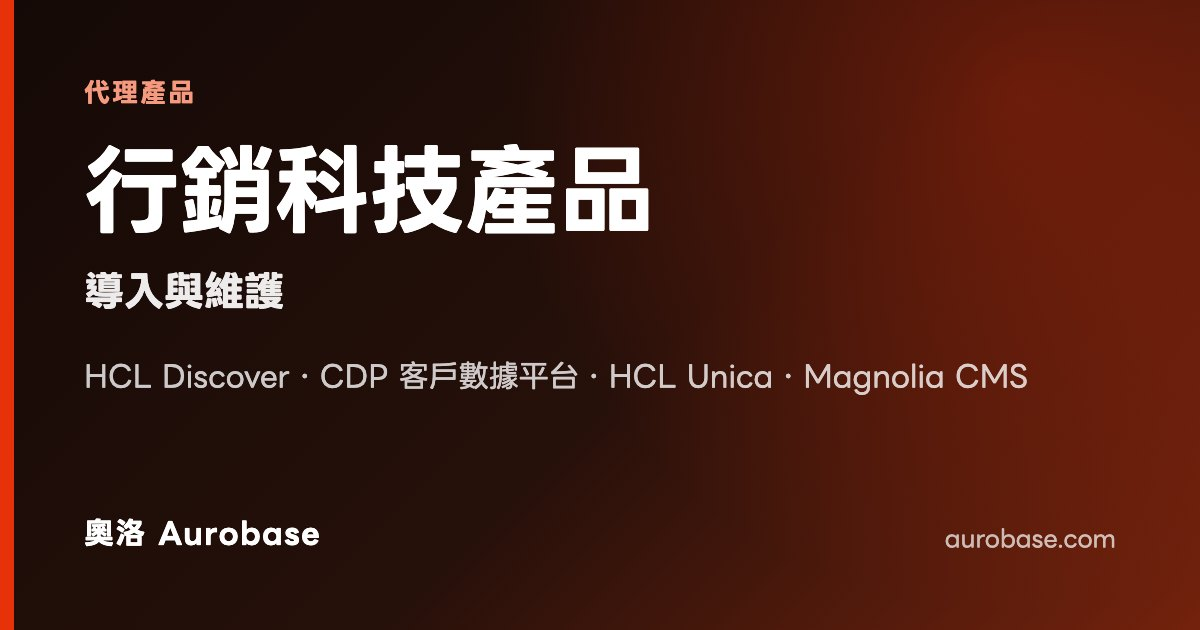
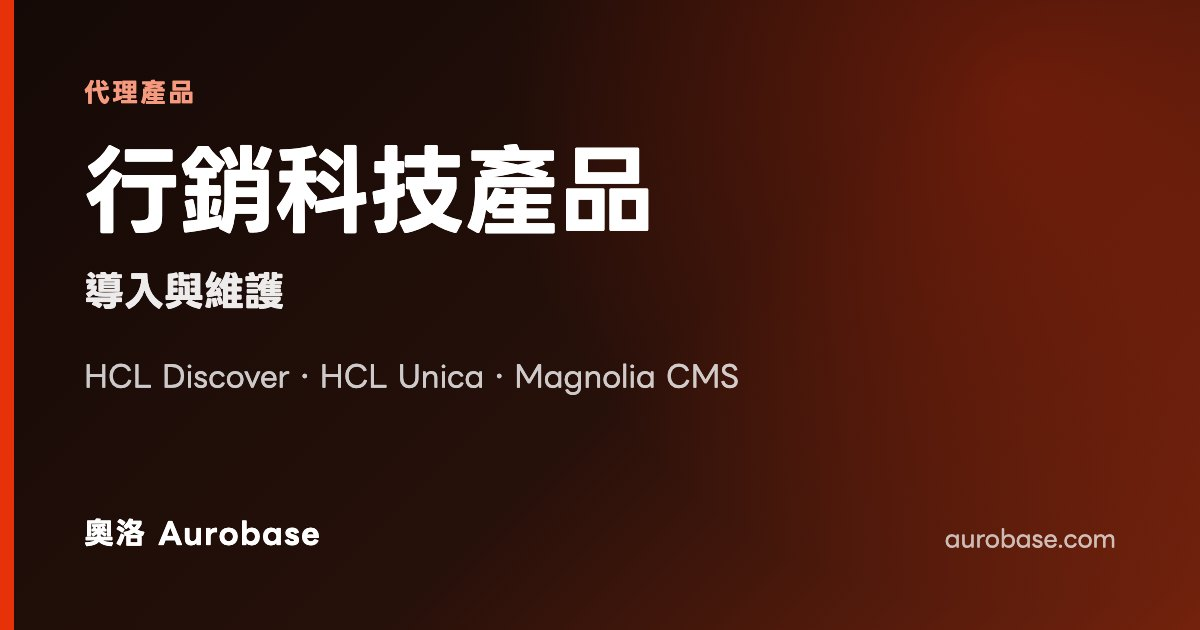
fix(solution): 代理產品移除 CDP 區塊（即自有 AURA CDP），改連 AURA CDP 產品頁

Changed region(s): [[0.2467, 0.573, 0.8633, 0.6333]]

diff --git a/nexus.html b/nexus.html
@@ -1108,7 +1108,7 @@
                             </form>
                             <div class="nm-table-wrap"><table class="nm-table nm-table-needs">
                                 <thead><tr><th scope="col">您的需求</th><th scope="col">對應模組</th></tr></thead>
-                                <tbody><tr data-key="統一管理企業內的 ai 使用，並留下稽核紀錄 forge 治理化 ai 閘道 forge — governed ai gateway nexus forge auro nexus forge 地端 ai 地端 llm 地端 llm 建置 ai 閘道 llm gateway 私有化 ai ai 治理 ai 稽核 企業知識庫 rag mcp openai 相容 api 金融業 ai 指引 chatgpt 生成式 ai 員工使用 ai 大語言模型 llm 地端模型 私有化 ai 個資外洩 ai 稽核 模型管理 資料外洩 機密外洩 客戶資料外洩 怕外洩 ai 資安" data-search="forge 是奧洛（aurobase）的治理化 ai 閘道，也是 auro nexus ai 治理平台的底座：以 openai 相容 api 統一企業內所有 ai 呼叫，推論前先做權限與政策檢查，可只用地端 ai 模型（地端 llm），並把每次推論、知識庫查詢與工具呼叫寫入可離線驗證的稽核軌跡。 企業內部 ai 的治理閘道：模型路由、知識庫、工具閘道與稽核帳。 資訊長、架構師要把各部門自行串接的 ai 收斂成一個入口、一套權限。 資安與法遵要回答「資料送去哪裡、誰核准、紀錄有沒有被改過」。 金融與受監理產業要在私有或離線環境導入生成式 ai，並保留可稽核的證據。 多模型路由 知識庫 rag mcp 工具閘道 自然語言查資料 審批與驗證 稽核帳與證據包 ai 閘道（llm gateway）是什麼？ 地端 ai 的主要優勢是什麼？ 地端 llm 建置之後，還需要 ai 治理平台嗎？ forge 跟直接用 chatgpt 有什麼不同？ 既有的 ai 應用要改寫才能接 forge 嗎？ 稽核紀錄怎麼證明沒被改過？"><th scope="row">統一管理企業內的 AI 使用，並留下稽核紀錄</th><td><a href="nexus-forge.html">Forge 治理化 AI 閘道</a></td></tr><tr data-key="讓 ai agent 自動執行工作，但保留人工審核 auro ai 任務編排 auro — governed ai task orchestration nexus auro auro nexus auro ai agent 平台 企業級 ai agent ai agent 企業導入 ai agent 企業應用 ai 代理 任務編排 工作流程自動化 人工審核 ai 治理 自動化 流程自動化 rpa ai agent 代理 工作流程 簽核 審核流程 排程" data-search="auro 是奧洛（aurobase）的企業級 ai agent 平台：每個 ai 任務都有步數、token 與時限上限，每一步先經四態治理閘門判定放行、警示、送審或阻擋，可暫停交人審核、可緊急停止，全程留下稽核紀錄。 ai 任務的編排與執行環境，內建預算、治理閘門與人工審核。 數位轉型與流程負責人想把重複性工作交給 ai agent，但需要明確的上限與審核點。 資安與風控要確保 ai agent 的每個動作都經過檢查、出事時能逐步重建。 已導入 ai 治理平台的企業要把治理從單次推論延伸到多步驟的代理任務。 有界執行 四態治理閘門 人工審核與緊急停止 代理間委派 受治理的長期記憶 技能登錄與執行 企業導入 ai agent 最需要注意什麼？ auro 怎麼避免 ai agent 失控？ 治理服務當機時會怎樣？ auro 可以在沒有網路的環境使用嗎？"><th scope="row">讓 AI Agent 自動執行工作，但保留人工審核</th><td><a href="nexus-auro.html">Auro AI 任務編排</a></td></tr><tr data-key="整合客戶資料，建立單一客戶視圖 aura cdp 客戶數據平台 aura cdp — customer data platform nexus cdp nexus cdp aura-cdp cdp cdp 客戶數據平台 客戶數據平台 客戶數據平台 單一客戶視圖 客戶 360 身分解析 分群 旅程編排 行銷自動化 同意管理 地端 cdp aura cdp 會員 客戶資料 顧客資料 360 分群 名單 再行銷 個人化 旅程 推播 line 病患資料 醫院 病患" data-search="aura cdp 是奧洛（aurobase）的 cdp 客戶數據平台：以身分解析整合各系統資料，建立單一客戶視圖，提供分群（含自然語言建分群）、旅程編排、ml 評分，以及同意管理與可追溯的個資刪除處理。可部署於企業自有機房。 整合客戶資料、建立單一客戶檔案，並驅動分群與旅程的客戶數據平台。 行銷與數位通路主管要把分散的客戶資料變成可直接啟動的分群與旅程。 資料與資訊單位要一套身分合併規則透明、可審核的客戶主檔。 金融與受監理產業客戶資料需留在自有環境，同意與刪除要有可查驗的紀錄。 身分解析 單一客戶檔案 分群 旅程編排 ml 評分 同意與刪除 cdp 客戶數據平台是什麼？ cdp 和 crm 有什麼不同？ aura cdp 可以部署在自己的機房嗎？ 身分解析會不會把不同的人併在一起？ 客戶要求刪除資料時怎麼處理？ 可以接哪些通路？"><th scope="row">整合客戶資料，建立單一客戶視圖</th><td><a href="nexus-cdp.html">AURA CDP 客戶數據平台</a></td></tr><tr data-key="經營 b2b 目標客戶，評估購買意圖 nexus abm 企業客戶帳號經營 nexus abm — account-based engine abm abm 行銷 abm 是什麼 b2b 行銷 b2b 行銷策略 帳號式行銷 意圖評分 多觸點歸因 b2b 行銷漏斗 b2b 企業客戶 業務開發 潛在客戶 商機 目標客戶 名單" data-search="nexus abm 是奧洛（aurobase）的 abm（帳號式行銷）平台：把個人行為歸到所屬企業帳號，以可解釋的方式評估購買意圖，並用四種歸因模型計算各接觸點的貢獻，建構於 aura cdp 之上。 b2b 目標客戶經營引擎：帳號解析、意圖評分、歸因與分群。 b2b 行銷主管要知道哪些目標企業正在研究您的產品。 業務主管要一份說得出理由的優先拜訪名單。 行銷營運要比較各接觸點的貢獻，調整預算分配。 企業帳號解析 可解釋的意圖評分 多觸點歸因 帳號分群 外展序列管理 abm 是什麼？ nexus abm 和 aura cdp 有什麼不同？ 意圖分數是怎麼算的？ nexus abm 提供哪些歸因模型？"><th scope="row">經營 B2B 目標客戶，評估購買意圖</th><td><a href="nexus-abm.html">NEXUS ABM 企業客戶帳號經營</a></td></tr><tr data-key="建立可追溯出處的企業知識庫與 rag 問答 insight 企業知識萃取與治理 insight — knowledge extraction &amp; governance nexus insight auro nexus insight 企業知識庫 企業知識庫 ai rag rag 企業應用 企業級 rag 知識管理系統 知識管理系統 ai kms 知識圖譜 語意搜尋 地端 ai 知識庫 文件問答 rag 內部文件 搜尋 faq 客服知識 規章 問答機器人 knowledge base 知識管理 內部問答" data-search="insight 是奧洛（aurobase）的企業知識庫 ai：把 pdf、word 等內部文件萃取成術語、知識點與問答，經人工審核後才開放 rag 問答與語意搜尋，每一項知識都能追溯回出處文件，可在地端運作。 企業文件的知識萃取、審核、檢索與圖譜平台。 知識管理與教育訓練要讓規章、作業手冊與產品知識可以被正確查詢。 客服與第一線人員要在幾秒內找到有出處、可以引用的答案。 法遵與稽核要確認 ai 引用的是有效版本，且知道是誰核准的。 文件解析 知識萃取 審核流程 術語版本與衝突 語意搜尋與問答 知識圖譜 企業知識庫 rag 怎麼導入比較穩？ insight 支援哪些文件格式？ insight 萃取的內容會直接給使用者查嗎？ insight 的答案能追溯到原始文件嗎？ insight 需要連外部 ai 服務嗎？"><th scope="row">建立可追溯出處的企業知識庫與 RAG 問答</th><td><a href="nexus-insight.html">Insight 企業知識萃取與治理</a></td></tr><tr data-key="讓員工的知識收藏留在企業環境內 library 個人知識收藏空間 library — personal knowledge space nexus library auro nexus library 個人知識管理 pkm 企業 pkm 書籤管理 書籤管理工具 知識收藏 筆記 瀏覽器擴充套件 企業知識庫 書籤 筆記 收藏 個人知識 網頁剪輯" data-search="library 是奧洛（aurobase）的企業個人知識管理（pkm）工具：每位員工一個獨立收藏空間，文字、網址、筆記與檔案可一鍵存入、加標籤、搜尋，並有 chrome 擴充套件；收藏留在企業環境內，可由 insight 建立語意索引。 每位員工的個人知識收藏、標籤與搜尋空間。 知識工作者要一個地方收齊文章、連結與筆記，需要時找得回來。 資訊與資安單位不希望工作資料散落在員工私人的筆記或雲端服務。 知識管理推動者要讓個人收藏有機會成為組織知識。 每人一個空間 單一入口收藏 收藏時的安全檢查 搜尋與標籤 瀏覽器擴充套件 個資刪除與稽核 library 可以收藏哪些內容？ 和一般書籤管理工具有什麼不同？ 其他同事看得到我在 library 的收藏嗎？ 可以用自然語言搜尋嗎？"><th scope="row">讓員工的知識收藏留在企業環境內</th><td><a href="nexus-library.html">Library 個人知識收藏空間</a></td></tr><tr data-key="用 ai 產製金融宣傳內容或衛教文章，並經審核 mira 受監理產業內容產製與審核 mira — content for regulated industries nexus mira auro nexus mira ai 內容產製 ai 寫文案 ai 內容審核 金融廣告合規 金融業 ai 衛教文章 衛教內容 醫療廣告 合規檢查 法條引用查核 地端 ai 文案 行銷素材 廣告文案 衛教 合規審核 宣傳品 海報 edm 圖片生成 金管會" data-search="mira 是奧洛（aurobase）為金融與醫療等受監理產業設計的 ai 內容產製與審核平台：ai 寫文案、長文、圖文與衛教文章，產出先經規則式合規檢查與法條引用查核，再由人工審核，紀錄寫入可驗證的雜湊鏈，可完全在地端運作。 受監理產業的 ai 內容產製、合規檢查與審核平台。 銀行、保險、證券的數位與品牌團隊要加快宣傳內容產出，同時降低踩到法規紅線的風險。 醫療院所的衛教與公關單位要穩定產出衛教文章，並由醫師審閱把關。 法遵與稽核要看得到每一版內容是誰寫、誰改、誰核准。 內容產製 圖文與品牌規範 規則式合規檢查 法條引用查核 衛教內容工作台 審核與稽核 金融業可以用 ai 寫文案嗎？ mira 適用哪些產業？ ai 引用的法條會不會是編造的？ mira 可以不連外部 ai 服務嗎？ 審核紀錄能提供給稽核嗎？"><th scope="row">用 AI 產製金融宣傳內容或衛教文章，並經審核</th><td><a href="nexus-mira.html">MIRA 受監理產業內容產製與審核</a></td></tr><tr data-key="分析輿情的情緒與敘事走向 pulse 輿情訊號分析 pulse — social signal intelligence nexus pulse auro nexus pulse 輿情分析 輿情分析平台 輿情分析工具 輿情分析 ai 輿情監測系統 社群聆聽 情緒分析 敘事分析 輿情告警 品牌聲量 輿情 社群 聲量 負評 公關 危機 新聞 口碑 評論 網友 討論 留言 大家怎麼說 網路聲量 品牌評價 ptt dcard 論壇 被罵 批評 抱怨 爆料" data-search="pulse 是奧洛（aurobase）的 ai 輿情分析平台：接收企業既有來源的輿情訊號，以批次 ai 分析情緒、摘要與敘事走向，依規則觸發告警，並回算處理後的成效。ai 分析經 forge 治理，個資刪除可回溯遮蔽。 外部輿情訊號的批次 ai 分析、告警與成效回算平台。 公關與品牌團隊要在敘事成形前察覺，並判斷是否需要回應。 客服與風險管理要把散落的抱怨整理成可處理的議題與告警。 已有輿情監測工具的企業要在既有資料之上加一層 ai 分析與成效回算。 訊號串流登錄 批次 ai 分析 告警規則 熱圖與相關性 影響者評分 個資刪除與稽核 輿情分析工具怎麼選？ pulse 會自己去抓社群資料嗎？ pulse 可以分析哪些面向？ ai 分析的資料會送到外部嗎？"><th scope="row">分析輿情的情緒與敘事走向</th><td><a href="nexus-pulse.html">Pulse 輿情訊號分析</a></td></tr><tr data-key="提升品牌在 ai 搜尋中的能見度 nexus geo 生成式搜尋能見度 nexus geo — generative engine optimization generative engine optimization geo auro nexus geo 生成式引擎優化 geo geo 優化 ai 搜尋優化 ai seo 品牌 ai 能見度 ai 引用率 chatgpt 品牌曝光 perplexity ai 搜尋 seo 搜尋排名 chatgpt 推薦 品牌曝光 官網 被 ai 引用" data-search="nexus geo 是奧洛（aurobase）的生成式引擎優化（geo）平台：經 forge 向 chatgpt、claude、gemini、perplexity 提問，量測品牌被提及與引用的程度，檢查網站對 ai 爬蟲與結構化資料的準備度，產出優化建議與月報。 量測品牌在生成式搜尋中被提及與引用程度，並提出網站優化建議的平台。 品牌與行銷主管想知道客戶問 ai 時，自家品牌和同業誰被提到。 網站與內容團隊要一份有出處的檢查清單，知道網站哪裡讓 ai 讀不懂。 金融機構的品牌風險管理ai 不再提到品牌、或引用了非官方來源時，要能及早發現。 多引擎能見度掃描 引用量測計畫 品牌實體擷取 行銷主管儀表板 網站技術體檢 品牌風險告警與報告 geo 和 seo 有什麼不同？做了 seo 還需要 geo 嗎？ nexus geo 怎麼量測品牌在 ai 裡的能見度？ 多久能看到 geo 的成效？ 我的官網需要大幅改版嗎？"><th scope="row">提升品牌在 AI 搜尋中的能見度</th><td><a href="nexus-geo.html">NEXUS GEO 生成式搜尋能見度</a></td></tr><tr data-key="治理非結構化資料的分級、保存與處分 saga 非結構化資料治理 saga — data governance layer stewardship · audit · governance · archiving nexus saga auro nexus saga 資料治理 非結構化資料治理 資料治理平台 資料分級 保存期限 法律保全 稽核軌跡 worm 資料血緣 四眼原則 ai 治理 金融資料治理 資料治理 資料分級 保存期限 銷毀 金檢 資料盤點 個資盤點 稽核軌跡" data-search="saga 是奧洛（aurobase）的非結構化資料治理平台：資料盤點與血緣、分級與保存期限、法律保全、四眼簽核與 ai 使用溯源由伺服器強制執行，每一次治理動作寫入只能附加的雜湊鏈稽核紀錄，竄改可被偵測，可地端離線部署。 金融機構的非結構化資料治理平台，治理控制由伺服器強制執行。 法遵與稽核單位金檢時要拿得出分級、保存與銷毀的執行證據。 資料治理與紀錄管理要把寫在政策文件裡的保存期限，變成系統會擋的控制。 導入 ai 的金融機構要答得出 ai 引用了哪些資料、當時是什麼密級。 資料盤點與目錄 生命週期與保存 稽核鏈 資料共享治理 ai 治理 品質與施行 權責與流程 saga 會讀取我們檔案裡的內容嗎？ saga 支援哪些資料來源？會影響來源系統嗎？ saga 的稽核紀錄真的改不掉嗎？ saga 可以裝在地端或離線環境嗎？ 導入 saga 就代表符合法規了嗎？"><th scope="row">治理非結構化資料的分級、保存與處分</th><td><a href="nexus-saga.html">SAGA 非結構化資料治理</a></td></tr><tr data-key="用 ai 產出提案書、報價單與週報 nexus ai-office 商業文件產製 nexus ai-office — governed document generation ai 文件產生 ai 寫提案 ai 簡報產生器 ai 產生簡報 提案書 報價單範本 週報 合約範本 文件自動化 線上編輯 提案書 報價單 週報 文件產製 word 報告 寫文件" data-search="nexus ai-office 是奧洛（aurobase）的企業 ai 文件產生平台：依企業範本以 ai 產出提案書、報價單、週報、保密協議、工作說明書與簡報，輸出 docx、pdf、pptx 並可在瀏覽器內線上編修；ai 生成經 forge 治理。 依範本產出商業文件、並可線上編修的文件產製平台。 業務與售前要快速產出格式一致、數字正確的提案與報價。 專案與管理階層要讓週報與內部文件不再從上一份複製修改。 資安與法務不希望客戶資料被貼進外部 ai 服務。 範本產製 範本管理 線上編修 文稿審閱 知識檔參照 稽核紀錄 ai 可以幫忙寫提案書嗎？ nexus ai-office 可以產出哪些文件？ 產出的文件可以再修改嗎？ 客戶資料會被送到外部 ai 嗎？"><th scope="row">用 AI 產出提案書、報價單與週報</th><td><a href="nexus-ai-office.html">NEXUS AI-Office 商業文件產製</a></td></tr><tr data-key="盤點大型主機程式，產出繁體中文規格書 lisa 主機程式現代化 lisa — legacy intelligence &amp; system advancement lisa = legacy intelligence &amp; system advancement nexus lisa auro nexus lisa 大型主機 mainframe 主機現代化 mainframe modernization cobol cobol 轉 java pl/i jcl copybook ims 系統規格書 舊系統 cobol 大型主機 mainframe 舊系統 系統現代化 規格書 文件化 改寫" data-search="lisa 是奧洛（aurobase）的大型主機（mainframe）現代化工具：讀取 cobol、pl/i、jcl、copybook 與 ims 原始碼，以確定性解析產出繁體中文規格書，每一項都標明原始碼行號，作為 cobol 轉 java 等現代化專案的現況基準。 讀取主機原始碼、產出繁體中文規格書的現代化工具。 銀行、保險與公部門資訊單位主機系統仍在運作，但文件過時、熟悉的人員陸續退休。 現代化專案的 pm 與架構師改寫或轉換之前，需要一份可驗收的現況規格。 稽核與風控要確認系統文件與實際程式一致。 多語言解析 ims 資料庫存取 逐項出處 繁體中文規格書 確定性、可重現 api 介接 lisa 支援哪些主機語言？ lisa 會把 cobol 轉成 java 嗎？ 規格書是 ai 寫的嗎？ 原始碼需要上傳到雲端嗎？"><th scope="row">盤點大型主機程式，產出繁體中文規格書</th><td><a href="nexus-lisa.html">LISA 主機程式現代化</a></td></tr><tr data-key="源碼檢測、弱點掃描與 sbom scanner 源碼檢測與弱點掃描 scanner — governed vulnerability scanning nexus scanner auro nexus scanner 源碼檢測 源碼檢測工具 弱點掃描 弱點掃描工具 弱點掃描報告 sbom sbom 工具 sbom 是什麼 sast dast sca 容器掃描 供應鏈安全 弱點掃描 資安 源碼檢測 sast dast 漏洞 cve sbom 供應鏈" data-search="scanner 是奧洛（aurobase）的源碼檢測與弱點掃描平台：涵蓋源碼檢測（sast）、網站弱點掃描（dast）、第三方套件分析（sca）、機密外洩、容器與 iac 掃描，產出 sarif 報告與 cyclonedx／spdx 格式的 sbom，並以 nvd、epss、cisa kev、twcert 情資排序。 涵蓋 sast、dast、sca、機密外洩、容器與 iac 的弱點掃描平台。 資安與應用程式安全團隊要把分散的掃描工具與報告收斂成一份清單。 開發與 devops要在程式碼平台與編輯器裡直接看到結果並修正。 委外與採購管理要求供應商交付 sbom 與掃描報告時，需要一致的格式。 原始碼與套件 網站與服務 容器與基礎設施 標準格式輸出 威脅情資同步 權限與身分整合 sbom 是什麼？ 源碼檢測和弱點掃描差在哪？ 弱點的修補優先順序怎麼決定？ 掃描結果可以匯入開發工具嗎？ 可以接公司既有的帳號系統嗎？"><th scope="row">源碼檢測、弱點掃描與 SBOM</th><td><a href="nexus-scanner.html">Scanner 源碼檢測與弱點掃描</a></td></tr><tr data-key="ssl 憑證管理與後量子密碼盤點 cardea ssl 憑證管理與機器身分治理 cardea — machine identity &amp; certificate governance cardea = certificate automation: renewal, discovery, enrollment &amp; attestation nexus cardea auro nexus cardea ssl 憑證管理 ssl 憑證到期 ssl 憑證到期查詢 憑證自動更新 iis 憑證自動更新 憑證生命週期 後量子密碼 後量子密碼遷移 pqc 密碼盤點 ssh 金鑰 機器身分 憑證 ssl tls 憑證過期 https 後量子 pqc 金鑰" data-search="cardea 是奧洛（aurobase）的 ssl 憑證管理與機器身分治理平台：自動盤點 tls 憑證與 ssh 金鑰、依政策檢查弱金鑰與效期、到期前預警，以 acme 自動更新並部署至 nginx、apache、iis，產出後量子密碼（pqc）遷移所需的密碼盤點報告，可單機離線運作。 tls 憑證與 ssh 金鑰的盤點、政策檢查、預警與更新自動化。 維運與網管要擺脫用試算表追蹤憑證到期。 資安長與資安單位要掌握全公司的憑證、金鑰與演算法現況。 金融機構要啟動後量子密碼遷移的第一步：密碼技術盤點。 盤點與探索 政策檢查 密碼敏捷度 到期預警與漂移偵測 簽發、部署、驗證 權限與稽核 ssl 憑證到期要怎麼查？ 憑證可以自動更新嗎？iis 也可以嗎？ 後量子密碼遷移要從哪裡開始？ 可以在沒有網路的環境使用嗎？"><th scope="row">SSL 憑證管理與後量子密碼盤點</th><td><a href="nexus-cardea.html">Cardea SSL 憑證管理與機器身分治理</a></td></tr><tr data-key="把詢問錄音整理成警詢筆錄草稿並檢查程序 警詢筆錄 ai 輔助 警詢筆錄 ai 輔助 ai-assisted interrogation records ai 警詢筆錄 ai 筆錄 警詢筆錄 警詢筆錄錄音 電子筆錄系統 筆錄系統 ai 筆錄 語音轉文字 構成要件 刑事訴訟法 警政 ai 地端 ai 警察 警詢 筆錄 錄音 逐字稿 語音轉文字" data-search="警詢筆錄 ai 輔助是奧洛（aurobase）以 auro nexus 平台組成的解決方案：詢問錄音轉成標好時間碼的逐字稿，預擬問答體筆錄草稿，依罪名檢查構成要件並提示追問，檢查告知事項等法定程序，員警審閱後套印；可部署在機關內部。 把詢問錄音整理成筆錄草稿，並檢查構成要件與法定程序的解決方案。 刑事警察與派出所員警減少邊問邊打字與事後核對錄音的時間，把注意力放回詢問本身。 偵查隊主管與法制人員在筆錄送出前看到構成要件與程序是否完整。 資訊室要求系統部署在機關內部、模型可控，並留下完整稽核紀錄。 語音轉寫 筆錄草稿 構成要件檢核 法定程序檢核 套印與版本 稽核與權限 警詢筆錄 ai 輔助會自動寫好筆錄嗎？ 警詢筆錄的錄音會傳到外部雲端嗎？ 警詢筆錄 ai 輔助怎麼檢查法定程序？ 警詢筆錄 ai 輔助支援台語或客語嗎？ 構成要件檢核包可以新增罪名嗎？"><th scope="row">把詢問錄音整理成警詢筆錄草稿並檢查程序</th><td><a href="solution-police-record.html">警詢筆錄 AI 輔助</a></td></tr><tr data-key="分析電話行銷通話、檢核告知與品質 suada 電話與視訊銷售對話智能 suada — sales conversation intelligence suada = sales utterance analysis &amp; dialogue assistant nexus suada auro nexus suada 電銷對話智能 電話行銷 電話行銷 ai 電銷品質稽核 對話分析 話術 保險電話行銷 視訊投保 通話品質 金融法遵 電銷 電話行銷 通話錄音 話術 品質稽核 qa 視訊投保 保險" data-search="suada 是奧洛（aurobase）以 auro nexus 平台組成的電話行銷與視訊銷售對話智能方案：辨識客戶意向與異議並提示業務員回應話術，逐項檢核告知與紀錄要件，以確定性禁語閘門擋下不當用語，並對每一通通話評分，紀錄寫入雜湊鏈。 電話行銷與視訊銷售的對話分析、話術提示與品質稽核方案。 電銷與視訊銷售主管要知道每位業務員卡在哪些異議、哪些話術有效。 品管與法遵人員要從抽聽改成每一通都檢核，並留下可回溯的紀錄。 業務員通話中就看到回應建議與尚未完成的告知項目。 對話辨識與提示 告知要件檢核 禁語閘門 話術庫管理 全量品質稽核 教練與報表 suada 會取代品管人員嗎？ suada 怎麼檢核電話行銷的告知要件？ suada 的禁語閘門怎麼運作？ suada 可以部署在自己的機房嗎？"><th scope="row">分析電話行銷通話、檢核告知與品質</th><td><a href="solution-telesales.html">SUADA 電話與視訊銷售對話智能</a></td></tr><tr data-key="把網站與 app 行為軌跡整理成行銷標籤 aura connect 數位軌跡行銷資料整合 aura connect — digital trail data integration nexus aura connect aura-connect 數位軌跡 行為軌跡 網站行為數據 hcl discover 行銷標籤 資料整合 etl 即時查詢 api 網站行為 app 行為 軌跡 埋點 discover 行為標籤" data-search="aura connect 是奧洛（aurobase）以 auro nexus 平台組成的數位軌跡資料整合方案：讀取 hcl discover 記錄的網站與 app 行為軌跡，切成工作階段，回溯同一裝置登入前後的身分，計算行銷標籤，依排程以 sftp 交付資料倉儲，並提供行銷平台即時查詢的 api。 把網站與 app 行為軌跡整理成行銷標籤，交付資料倉儲並提供即時查詢的方案。 數位行銷團隊要把網站與 app 上的行為變成可以圈選的標籤。 資料倉儲與資訊單位要穩定、可勾稽的批次交付，不再依賴臨時匯出的檔案。 已使用 hcl discover 的企業要把既有的行為紀錄接到行銷流程裡。 行為軌跡匯入 身分回溯 行銷標籤 交付與品質檢核 即時查詢 api 資料庫 aura connect 支援哪些行為資料來源？ aura connect 怎麼確保交付的資料正確？ aura connect 會把不同裝置的行為合併到同一人嗎？ aura connect 可以裝在自己的機房嗎？"><th scope="row">把網站與 App 行為軌跡整理成行銷標籤</th><td><a href="solution-digital-trail.html">AURA Connect 數位軌跡行銷資料整合</a></td></tr><tr data-key="擷取表單、證明文件與財報欄位，手寫轉人工覆核 ai ocr 智慧文件辨識 ai ocr 智慧文件辨識 ai ocr — intelligent document recognition ai ocr 財報智慧辨識 ai ocr 文件辨識 財報智慧辨識引擎 ai ocr ai ocr 辨識 中文 ocr 手寫 ocr 繁體中文手寫 ocr 手寫辨識 ai ocr 文件辨識 保險理賠文件 表單辨識 財報辨識 地端 ocr ocr 掃描 文件辨識 表單 發票 財報 手寫 證明文件 kyc" data-search="ai ocr 智慧文件辨識是奧洛（aurobase）以 auro nexus 平台組成的解決方案：用欄位定義描述要擷取的內容，免訓練就能處理表單、證明文件與理賠附件等不同格式；印刷字由 ocr 讀取，手寫與信心不足的欄位轉人工覆核，修正結果下一份即生效；內建財務報表辨識與勾稽，可部署在機房內。 免訓練擷取各種文件欄位，手寫與信心不足的轉人工覆核的 ai ocr 解決方案。 保險理賠與核保作業理賠附件來自不同機構，格式不一，還常夾雜手寫。 授信與徵信單位要減少財報登打與核對的時間，並保留每個數字的來源。 申請與審查單位要把各種申請書與證明文件的欄位，直接帶進既有的審查流程。 任意格式擷取 印刷字與罕用字 手寫欄位 信心度與分流 修正學習 內建財報辨識 核對與輸出 安全與稽核 ai ocr 是什麼？ ai ocr 可以辨識手寫嗎？ 遇到新的文件格式要重新訓練嗎？ 人工改過的結果會讓系統越來越準嗎？ ai ocr 智慧文件辨識可以部署在機房內嗎？ ai ocr 智慧文件辨識也能處理財務報表嗎？"><th scope="row">擷取表單、證明文件與財報欄位，手寫轉人工覆核</th><td><a href="solution-ai-ocr.html">AI OCR 智慧文件辨識</a></td></tr></tbody></table></div>
+                                <tbody><tr data-key="統一管理企業內的 ai 使用，並留下稽核紀錄 forge 治理化 ai 閘道 forge — governed ai gateway nexus forge auro nexus forge 地端 ai 地端 llm 地端 llm 建置 ai 閘道 llm gateway 私有化 ai ai 治理 ai 稽核 企業知識庫 rag mcp openai 相容 api 金融業 ai 指引 chatgpt 生成式 ai 員工使用 ai 大語言模型 llm 地端模型 私有化 ai 個資外洩 ai 稽核 模型管理 資料外洩 機密外洩 客戶資料外洩 怕外洩 ai 資安" data-search="forge 是奧洛（aurobase）的治理化 ai 閘道，也是 auro nexus ai 治理平台的底座：以 openai 相容 api 統一企業內所有 ai 呼叫，推論前先做權限與政策檢查，可只用地端 ai 模型（地端 llm），並把每次推論、知識庫查詢與工具呼叫寫入可離線驗證的稽核軌跡。 企業內部 ai 的治理閘道：模型路由、知識庫、工具閘道與稽核帳。 資訊長、架構師要把各部門自行串接的 ai 收斂成一個入口、一套權限。 資安與法遵要回答「資料送去哪裡、誰核准、紀錄有沒有被改過」。 金融與受監理產業要在私有或離線環境導入生成式 ai，並保留可稽核的證據。 多模型路由 知識庫 rag mcp 工具閘道 自然語言查資料 審批與驗證 稽核帳與證據包 ai 閘道（llm gateway）是什麼？ 地端 ai 的主要優勢是什麼？ 地端 llm 建置之後，還需要 ai 治理平台嗎？ forge 跟直接用 chatgpt 有什麼不同？ 既有的 ai 應用要改寫才能接 forge 嗎？ 稽核紀錄怎麼證明沒被改過？"><th scope="row">統一管理企業內的 AI 使用，並留下稽核紀錄</th><td><a href="nexus-forge.html">Forge 治理化 AI 閘道</a></td></tr><tr data-key="讓 ai agent 自動執行工作，但保留人工審核 auro ai 任務編排 auro — governed ai task orchestration nexus auro auro nexus auro ai agent 平台 企業級 ai agent ai agent 企業導入 ai agent 企業應用 ai 代理 任務編排 工作流程自動化 人工審核 ai 治理 自動化 流程自動化 rpa ai agent 代理 工作流程 簽核 審核流程 排程" data-search="auro 是奧洛（aurobase）的企業級 ai agent 平台：每個 ai 任務都有步數、token 與時限上限，每一步先經四態治理閘門判定放行、警示、送審或阻擋，可暫停交人審核、可緊急停止，全程留下稽核紀錄。 ai 任務的編排與執行環境，內建預算、治理閘門與人工審核。 數位轉型與流程負責人想把重複性工作交給 ai agent，但需要明確的上限與審核點。 資安與風控要確保 ai agent 的每個動作都經過檢查、出事時能逐步重建。 已導入 ai 治理平台的企業要把治理從單次推論延伸到多步驟的代理任務。 有界執行 四態治理閘門 人工審核與緊急停止 代理間委派 受治理的長期記憶 技能登錄與執行 企業導入 ai agent 最需要注意什麼？ auro 怎麼避免 ai agent 失控？ 治理服務當機時會怎樣？ auro 可以在沒有網路的環境使用嗎？"><th scope="row">讓 AI Agent 自動執行工作，但保留人工審核</th><td><a href="nexus-auro.html">Auro AI 任務編排</a></td></tr><tr data-key="整合客戶資料，建立單一客戶視圖 aura cdp 客戶數據平台 aura cdp — customer data platform nexus cdp nexus cdp aura-cdp cdp cdp 客戶數據平台 客戶數據平台 客戶數據平台 單一客戶視圖 客戶 360 身分解析 分群 旅程編排 行銷自動化 同意管理 地端 cdp aura cdp 會員 客戶資料 顧客資料 360 分群 名單 再行銷 個人化 旅程 推播 line 病患資料 醫院 病患 360 度 客戶輪廓 貼標 customer data platform" data-search="aura cdp 是奧洛（aurobase）的 cdp 客戶數據平台：以身分解析整合各系統資料，建立單一客戶視圖，提供分群（含自然語言建分群）、旅程編排、ml 評分，以及同意管理與可追溯的個資刪除處理。可部署於企業自有機房。 整合客戶資料、建立單一客戶檔案，並驅動分群與旅程的客戶數據平台。 行銷與數位通路主管要把分散的客戶資料變成可直接啟動的分群與旅程。 資料與資訊單位要一套身分合併規則透明、可審核的客戶主檔。 金融與受監理產業客戶資料需留在自有環境，同意與刪除要有可查驗的紀錄。 身分解析 單一客戶檔案 分群 旅程編排 ml 評分 同意與刪除 cdp 客戶數據平台是什麼？ cdp 和 crm 有什麼不同？ aura cdp 可以部署在自己的機房嗎？ 身分解析會不會把不同的人併在一起？ 客戶要求刪除資料時怎麼處理？ 可以接哪些通路？"><th scope="row">整合客戶資料，建立單一客戶視圖</th><td><a href="nexus-cdp.html">AURA CDP 客戶數據平台</a></td></tr><tr data-key="經營 b2b 目標客戶，評估購買意圖 nexus abm 企業客戶帳號經營 nexus abm — account-based engine abm abm 行銷 abm 是什麼 b2b 行銷 b2b 行銷策略 帳號式行銷 意圖評分 多觸點歸因 b2b 行銷漏斗 b2b 企業客戶 業務開發 潛在客戶 商機 目標客戶 名單" data-search="nexus abm 是奧洛（aurobase）的 abm（帳號式行銷）平台：把個人行為歸到所屬企業帳號，以可解釋的方式評估購買意圖，並用四種歸因模型計算各接觸點的貢獻，建構於 aura cdp 之上。 b2b 目標客戶經營引擎：帳號解析、意圖評分、歸因與分群。 b2b 行銷主管要知道哪些目標企業正在研究您的產品。 業務主管要一份說得出理由的優先拜訪名單。 行銷營運要比較各接觸點的貢獻，調整預算分配。 企業帳號解析 可解釋的意圖評分 多觸點歸因 帳號分群 外展序列管理 abm 是什麼？ nexus abm 和 aura cdp 有什麼不同？ 意圖分數是怎麼算的？ nexus abm 提供哪些歸因模型？"><th scope="row">經營 B2B 目標客戶，評估購買意圖</th><td><a href="nexus-abm.html">NEXUS ABM 企業客戶帳號經營</a></td></tr><tr data-key="建立可追溯出處的企業知識庫與 rag 問答 insight 企業知識萃取與治理 insight — knowledge extraction &amp; governance nexus insight auro nexus insight 企業知識庫 企業知識庫 ai rag rag 企業應用 企業級 rag 知識管理系統 知識管理系統 ai kms 知識圖譜 語意搜尋 地端 ai 知識庫 文件問答 rag 內部文件 搜尋 faq 客服知識 規章 問答機器人 knowledge base 知識管理 內部問答" data-search="insight 是奧洛（aurobase）的企業知識庫 ai：把 pdf、word 等內部文件萃取成術語、知識點與問答，經人工審核後才開放 rag 問答與語意搜尋，每一項知識都能追溯回出處文件，可在地端運作。 企業文件的知識萃取、審核、檢索與圖譜平台。 知識管理與教育訓練要讓規章、作業手冊與產品知識可以被正確查詢。 客服與第一線人員要在幾秒內找到有出處、可以引用的答案。 法遵與稽核要確認 ai 引用的是有效版本，且知道是誰核准的。 文件解析 知識萃取 審核流程 術語版本與衝突 語意搜尋與問答 知識圖譜 企業知識庫 rag 怎麼導入比較穩？ insight 支援哪些文件格式？ insight 萃取的內容會直接給使用者查嗎？ insight 的答案能追溯到原始文件嗎？ insight 需要連外部 ai 服務嗎？"><th scope="row">建立可追溯出處的企業知識庫與 RAG 問答</th><td><a href="nexus-insight.html">Insight 企業知識萃取與治理</a></td></tr><tr data-key="讓員工的知識收藏留在企業環境內 library 個人知識收藏空間 library — personal knowledge space nexus library auro nexus library 個人知識管理 pkm 企業 pkm 書籤管理 書籤管理工具 知識收藏 筆記 瀏覽器擴充套件 企業知識庫 書籤 筆記 收藏 個人知識 網頁剪輯" data-search="library 是奧洛（aurobase）的企業個人知識管理（pkm）工具：每位員工一個獨立收藏空間，文字、網址、筆記與檔案可一鍵存入、加標籤、搜尋，並有 chrome 擴充套件；收藏留在企業環境內，可由 insight 建立語意索引。 每位員工的個人知識收藏、標籤與搜尋空間。 知識工作者要一個地方收齊文章、連結與筆記，需要時找得回來。 資訊與資安單位不希望工作資料散落在員工私人的筆記或雲端服務。 知識管理推動者要讓個人收藏有機會成為組織知識。 每人一個空間 單一入口收藏 收藏時的安全檢查 搜尋與標籤 瀏覽器擴充套件 個資刪除與稽核 library 可以收藏哪些內容？ 和一般書籤管理工具有什麼不同？ 其他同事看得到我在 library 的收藏嗎？ 可以用自然語言搜尋嗎？"><th scope="row">讓員工的知識收藏留在企業環境內</th><td><a href="nexus-library.html">Library 個人知識收藏空間</a></td></tr><tr data-key="用 ai 產製金融宣傳內容或衛教文章，並經審核 mira 受監理產業內容產製與審核 mira — content for regulated industries nexus mira auro nexus mira ai 內容產製 ai 寫文案 ai 內容審核 金融廣告合規 金融業 ai 衛教文章 衛教內容 醫療廣告 合規檢查 法條引用查核 地端 ai 文案 行銷素材 廣告文案 衛教 合規審核 宣傳品 海報 edm 圖片生成 金管會" data-search="mira 是奧洛（aurobase）為金融與醫療等受監理產業設計的 ai 內容產製與審核平台：ai 寫文案、長文、圖文與衛教文章，產出先經規則式合規檢查與法條引用查核，再由人工審核，紀錄寫入可驗證的雜湊鏈，可完全在地端運作。 受監理產業的 ai 內容產製、合規檢查與審核平台。 銀行、保險、證券的數位與品牌團隊要加快宣傳內容產出，同時降低踩到法規紅線的風險。 醫療院所的衛教與公關單位要穩定產出衛教文章，並由醫師審閱把關。 法遵與稽核要看得到每一版內容是誰寫、誰改、誰核准。 內容產製 圖文與品牌規範 規則式合規檢查 法條引用查核 衛教內容工作台 審核與稽核 金融業可以用 ai 寫文案嗎？ mira 適用哪些產業？ ai 引用的法條會不會是編造的？ mira 可以不連外部 ai 服務嗎？ 審核紀錄能提供給稽核嗎？"><th scope="row">用 AI 產製金融宣傳內容或衛教文章，並經審核</th><td><a href="nexus-mira.html">MIRA 受監理產業內容產製與審核</a></td></tr><tr data-key="分析輿情的情緒與敘事走向 pulse 輿情訊號分析 pulse — social signal intelligence nexus pulse auro nexus pulse 輿情分析 輿情分析平台 輿情分析工具 輿情分析 ai 輿情監測系統 社群聆聽 情緒分析 敘事分析 輿情告警 品牌聲量 輿情 社群 聲量 負評 公關 危機 新聞 口碑 評論 網友 討論 留言 大家怎麼說 網路聲量 品牌評價 ptt dcard 論壇 被罵 批評 抱怨 爆料" data-search="pulse 是奧洛（aurobase）的 ai 輿情分析平台：接收企業既有來源的輿情訊號，以批次 ai 分析情緒、摘要與敘事走向，依規則觸發告警，並回算處理後的成效。ai 分析經 forge 治理，個資刪除可回溯遮蔽。 外部輿情訊號的批次 ai 分析、告警與成效回算平台。 公關與品牌團隊要在敘事成形前察覺，並判斷是否需要回應。 客服與風險管理要把散落的抱怨整理成可處理的議題與告警。 已有輿情監測工具的企業要在既有資料之上加一層 ai 分析與成效回算。 訊號串流登錄 批次 ai 分析 告警規則 熱圖與相關性 影響者評分 個資刪除與稽核 輿情分析工具怎麼選？ pulse 會自己去抓社群資料嗎？ pulse 可以分析哪些面向？ ai 分析的資料會送到外部嗎？"><th scope="row">分析輿情的情緒與敘事走向</th><td><a href="nexus-pulse.html">Pulse 輿情訊號分析</a></td></tr><tr data-key="提升品牌在 ai 搜尋中的能見度 nexus geo 生成式搜尋能見度 nexus geo — generative engine optimization generative engine optimization geo auro nexus geo 生成式引擎優化 geo geo 優化 ai 搜尋優化 ai seo 品牌 ai 能見度 ai 引用率 chatgpt 品牌曝光 perplexity ai 搜尋 seo 搜尋排名 chatgpt 推薦 品牌曝光 官網 被 ai 引用" data-search="nexus geo 是奧洛（aurobase）的生成式引擎優化（geo）平台：經 forge 向 chatgpt、claude、gemini、perplexity 提問，量測品牌被提及與引用的程度，檢查網站對 ai 爬蟲與結構化資料的準備度，產出優化建議與月報。 量測品牌在生成式搜尋中被提及與引用程度，並提出網站優化建議的平台。 品牌與行銷主管想知道客戶問 ai 時，自家品牌和同業誰被提到。 網站與內容團隊要一份有出處的檢查清單，知道網站哪裡讓 ai 讀不懂。 金融機構的品牌風險管理ai 不再提到品牌、或引用了非官方來源時，要能及早發現。 多引擎能見度掃描 引用量測計畫 品牌實體擷取 行銷主管儀表板 網站技術體檢 品牌風險告警與報告 geo 和 seo 有什麼不同？做了 seo 還需要 geo 嗎？ nexus geo 怎麼量測品牌在 ai 裡的能見度？ 多久能看到 geo 的成效？ 我的官網需要大幅改版嗎？"><th scope="row">提升品牌在 AI 搜尋中的能見度</th><td><a href="nexus-geo.html">NEXUS GEO 生成式搜尋能見度</a></td></tr><tr data-key="治理非結構化資料的分級、保存與處分 saga 非結構化資料治理 saga — data governance layer stewardship · audit · governance · archiving nexus saga auro nexus saga 資料治理 非結構化資料治理 資料治理平台 資料分級 保存期限 法律保全 稽核軌跡 worm 資料血緣 四眼原則 ai 治理 金融資料治理 資料治理 資料分級 保存期限 銷毀 金檢 資料盤點 個資盤點 稽核軌跡" data-search="saga 是奧洛（aurobase）的非結構化資料治理平台：資料盤點與血緣、分級與保存期限、法律保全、四眼簽核與 ai 使用溯源由伺服器強制執行，每一次治理動作寫入只能附加的雜湊鏈稽核紀錄，竄改可被偵測，可地端離線部署。 金融機構的非結構化資料治理平台，治理控制由伺服器強制執行。 法遵與稽核單位金檢時要拿得出分級、保存與銷毀的執行證據。 資料治理與紀錄管理要把寫在政策文件裡的保存期限，變成系統會擋的控制。 導入 ai 的金融機構要答得出 ai 引用了哪些資料、當時是什麼密級。 資料盤點與目錄 生命週期與保存 稽核鏈 資料共享治理 ai 治理 品質與施行 權責與流程 saga 會讀取我們檔案裡的內容嗎？ saga 支援哪些資料來源？會影響來源系統嗎？ saga 的稽核紀錄真的改不掉嗎？ saga 可以裝在地端或離線環境嗎？ 導入 saga 就代表符合法規了嗎？"><th scope="row">治理非結構化資料的分級、保存與處分</th><td><a href="nexus-saga.html">SAGA 非結構化資料治理</a></td></tr><tr data-key="用 ai 產出提案書、報價單與週報 nexus ai-office 商業文件產製 nexus ai-office — governed document generation ai 文件產生 ai 寫提案 ai 簡報產生器 ai 產生簡報 提案書 報價單範本 週報 合約範本 文件自動化 線上編輯 提案書 報價單 週報 文件產製 word 報告 寫文件" data-search="nexus ai-office 是奧洛（aurobase）的企業 ai 文件產生平台：依企業範本以 ai 產出提案書、報價單、週報、保密協議、工作說明書與簡報，輸出 docx、pdf、pptx 並可在瀏覽器內線上編修；ai 生成經 forge 治理。 依範本產出商業文件、並可線上編修的文件產製平台。 業務與售前要快速產出格式一致、數字正確的提案與報價。 專案與管理階層要讓週報與內部文件不再從上一份複製修改。 資安與法務不希望客戶資料被貼進外部 ai 服務。 範本產製 範本管理 線上編修 文稿審閱 知識檔參照 稽核紀錄 ai 可以幫忙寫提案書嗎？ nexus ai-office 可以產出哪些文件？ 產出的文件可以再修改嗎？ 客戶資料會被送到外部 ai 嗎？"><th scope="row">用 AI 產出提案書、報價單與週報</th><td><a href="nexus-ai-office.html">NEXUS AI-Office 商業文件產製</a></td></tr><tr data-key="盤點大型主機程式，產出繁體中文規格書 lisa 主機程式現代化 lisa — legacy intelligence &amp; system advancement lisa = legacy intelligence &amp; system advancement nexus lisa auro nexus lisa 大型主機 mainframe 主機現代化 mainframe modernization cobol cobol 轉 java pl/i jcl copybook ims 系統規格書 舊系統 cobol 大型主機 mainframe 舊系統 系統現代化 規格書 文件化 改寫" data-search="lisa 是奧洛（aurobase）的大型主機（mainframe）現代化工具：讀取 cobol、pl/i、jcl、copybook 與 ims 原始碼，以確定性解析產出繁體中文規格書，每一項都標明原始碼行號，作為 cobol 轉 java 等現代化專案的現況基準。 讀取主機原始碼、產出繁體中文規格書的現代化工具。 銀行、保險與公部門資訊單位主機系統仍在運作，但文件過時、熟悉的人員陸續退休。 現代化專案的 pm 與架構師改寫或轉換之前，需要一份可驗收的現況規格。 稽核與風控要確認系統文件與實際程式一致。 多語言解析 ims 資料庫存取 逐項出處 繁體中文規格書 確定性、可重現 api 介接 lisa 支援哪些主機語言？ lisa 會把 cobol 轉成 java 嗎？ 規格書是 ai 寫的嗎？ 原始碼需要上傳到雲端嗎？"><th scope="row">盤點大型主機程式，產出繁體中文規格書</th><td><a href="nexus-lisa.html">LISA 主機程式現代化</a></td></tr><tr data-key="源碼檢測、弱點掃描與 sbom scanner 源碼檢測與弱點掃描 scanner — governed vulnerability scanning nexus scanner auro nexus scanner 源碼檢測 源碼檢測工具 弱點掃描 弱點掃描工具 弱點掃描報告 sbom sbom 工具 sbom 是什麼 sast dast sca 容器掃描 供應鏈安全 弱點掃描 資安 源碼檢測 sast dast 漏洞 cve sbom 供應鏈" data-search="scanner 是奧洛（aurobase）的源碼檢測與弱點掃描平台：涵蓋源碼檢測（sast）、網站弱點掃描（dast）、第三方套件分析（sca）、機密外洩、容器與 iac 掃描，產出 sarif 報告與 cyclonedx／spdx 格式的 sbom，並以 nvd、epss、cisa kev、twcert 情資排序。 涵蓋 sast、dast、sca、機密外洩、容器與 iac 的弱點掃描平台。 資安與應用程式安全團隊要把分散的掃描工具與報告收斂成一份清單。 開發與 devops要在程式碼平台與編輯器裡直接看到結果並修正。 委外與採購管理要求供應商交付 sbom 與掃描報告時，需要一致的格式。 原始碼與套件 網站與服務 容器與基礎設施 標準格式輸出 威脅情資同步 權限與身分整合 sbom 是什麼？ 源碼檢測和弱點掃描差在哪？ 弱點的修補優先順序怎麼決定？ 掃描結果可以匯入開發工具嗎？ 可以接公司既有的帳號系統嗎？"><th scope="row">源碼檢測、弱點掃描與 SBOM</th><td><a href="nexus-scanner.html">Scanner 源碼檢測與弱點掃描</a></td></tr><tr data-key="ssl 憑證管理與後量子密碼盤點 cardea ssl 憑證管理與機器身分治理 cardea — machine identity &amp; certificate governance cardea = certificate automation: renewal, discovery, enrollment &amp; attestation nexus cardea auro nexus cardea ssl 憑證管理 ssl 憑證到期 ssl 憑證到期查詢 憑證自動更新 iis 憑證自動更新 憑證生命週期 後量子密碼 後量子密碼遷移 pqc 密碼盤點 ssh 金鑰 機器身分 憑證 ssl tls 憑證過期 https 後量子 pqc 金鑰" data-search="cardea 是奧洛（aurobase）的 ssl 憑證管理與機器身分治理平台：自動盤點 tls 憑證與 ssh 金鑰、依政策檢查弱金鑰與效期、到期前預警，以 acme 自動更新並部署至 nginx、apache、iis，產出後量子密碼（pqc）遷移所需的密碼盤點報告，可單機離線運作。 tls 憑證與 ssh 金鑰的盤點、政策檢查、預警與更新自動化。 維運與網管要擺脫用試算表追蹤憑證到期。 資安長與資安單位要掌握全公司的憑證、金鑰與演算法現況。 金融機構要啟動後量子密碼遷移的第一步：密碼技術盤點。 盤點與探索 政策檢查 密碼敏捷度 到期預警與漂移偵測 簽發、部署、驗證 權限與稽核 ssl 憑證到期要怎麼查？ 憑證可以自動更新嗎？iis 也可以嗎？ 後量子密碼遷移要從哪裡開始？ 可以在沒有網路的環境使用嗎？"><th scope="row">SSL 憑證管理與後量子密碼盤點</th><td><a href="nexus-cardea.html">Cardea SSL 憑證管理與機器身分治理</a></td></tr><tr data-key="把詢問錄音整理成警詢筆錄草稿並檢查程序 警詢筆錄 ai 輔助 警詢筆錄 ai 輔助 ai-assisted interrogation records ai 警詢筆錄 ai 筆錄 警詢筆錄 警詢筆錄錄音 電子筆錄系統 筆錄系統 ai 筆錄 語音轉文字 構成要件 刑事訴訟法 警政 ai 地端 ai 警察 警詢 筆錄 錄音 逐字稿 語音轉文字" data-search="警詢筆錄 ai 輔助是奧洛（aurobase）以 auro nexus 平台組成的解決方案：詢問錄音轉成標好時間碼的逐字稿，預擬問答體筆錄草稿，依罪名檢查構成要件並提示追問，檢查告知事項等法定程序，員警審閱後套印；可部署在機關內部。 把詢問錄音整理成筆錄草稿，並檢查構成要件與法定程序的解決方案。 刑事警察與派出所員警減少邊問邊打字與事後核對錄音的時間，把注意力放回詢問本身。 偵查隊主管與法制人員在筆錄送出前看到構成要件與程序是否完整。 資訊室要求系統部署在機關內部、模型可控，並留下完整稽核紀錄。 語音轉寫 筆錄草稿 構成要件檢核 法定程序檢核 套印與版本 稽核與權限 警詢筆錄 ai 輔助會自動寫好筆錄嗎？ 警詢筆錄的錄音會傳到外部雲端嗎？ 警詢筆錄 ai 輔助怎麼檢查法定程序？ 警詢筆錄 ai 輔助支援台語或客語嗎？ 構成要件檢核包可以新增罪名嗎？"><th scope="row">把詢問錄音整理成警詢筆錄草稿並檢查程序</th><td><a href="solution-police-record.html">警詢筆錄 AI 輔助</a></td></tr><tr data-key="分析電話行銷通話、檢核告知與品質 suada 電話與視訊銷售對話智能 suada — sales conversation intelligence suada = sales utterance analysis &amp; dialogue assistant nexus suada auro nexus suada 電銷對話智能 電話行銷 電話行銷 ai 電銷品質稽核 對話分析 話術 保險電話行銷 視訊投保 通話品質 金融法遵 電銷 電話行銷 通話錄音 話術 品質稽核 qa 視訊投保 保險" data-search="suada 是奧洛（aurobase）以 auro nexus 平台組成的電話行銷與視訊銷售對話智能方案：辨識客戶意向與異議並提示業務員回應話術，逐項檢核告知與紀錄要件，以確定性禁語閘門擋下不當用語，並對每一通通話評分，紀錄寫入雜湊鏈。 電話行銷與視訊銷售的對話分析、話術提示與品質稽核方案。 電銷與視訊銷售主管要知道每位業務員卡在哪些異議、哪些話術有效。 品管與法遵人員要從抽聽改成每一通都檢核，並留下可回溯的紀錄。 業務員通話中就看到回應建議與尚未完成的告知項目。 對話辨識與提示 告知要件檢核 禁語閘門 話術庫管理 全量品質稽核 教練與報表 suada 會取代品管人員嗎？ suada 怎麼檢核電話行銷的告知要件？ suada 的禁語閘門怎麼運作？ suada 可以部署在自己的機房嗎？"><th scope="row">分析電話行銷通話、檢核告知與品質</th><td><a href="solution-telesales.html">SUADA 電話與視訊銷售對話智能</a></td></tr><tr data-key="把網站與 app 行為軌跡整理成行銷標籤 aura connect 數位軌跡行銷資料整合 aura connect — digital trail data integration nexus aura connect aura-connect 數位軌跡 行為軌跡 網站行為數據 hcl discover 行銷標籤 資料整合 etl 即時查詢 api 網站行為 app 行為 軌跡 埋點 discover 行為標籤" data-search="aura connect 是奧洛（aurobase）以 auro nexus 平台組成的數位軌跡資料整合方案：讀取 hcl discover 記錄的網站與 app 行為軌跡，切成工作階段，回溯同一裝置登入前後的身分，計算行銷標籤，依排程以 sftp 交付資料倉儲，並提供行銷平台即時查詢的 api。 把網站與 app 行為軌跡整理成行銷標籤，交付資料倉儲並提供即時查詢的方案。 數位行銷團隊要把網站與 app 上的行為變成可以圈選的標籤。 資料倉儲與資訊單位要穩定、可勾稽的批次交付，不再依賴臨時匯出的檔案。 已使用 hcl discover 的企業要把既有的行為紀錄接到行銷流程裡。 行為軌跡匯入 身分回溯 行銷標籤 交付與品質檢核 即時查詢 api 資料庫 aura connect 支援哪些行為資料來源？ aura connect 怎麼確保交付的資料正確？ aura connect 會把不同裝置的行為合併到同一人嗎？ aura connect 可以裝在自己的機房嗎？"><th scope="row">把網站與 App 行為軌跡整理成行銷標籤</th><td><a href="solution-digital-trail.html">AURA Connect 數位軌跡行銷資料整合</a></td></tr><tr data-key="擷取表單、證明文件與財報欄位，手寫轉人工覆核 ai ocr 智慧文件辨識 ai ocr 智慧文件辨識 ai ocr — intelligent document recognition ai ocr 財報智慧辨識 ai ocr 文件辨識 財報智慧辨識引擎 ai ocr ai ocr 辨識 中文 ocr 手寫 ocr 繁體中文手寫 ocr 手寫辨識 ai ocr 文件辨識 保險理賠文件 表單辨識 財報辨識 地端 ocr ocr 掃描 文件辨識 表單 發票 財報 手寫 證明文件 kyc" data-search="ai ocr 智慧文件辨識是奧洛（aurobase）以 auro nexus 平台組成的解決方案：用欄位定義描述要擷取的內容，免訓練就能處理表單、證明文件與理賠附件等不同格式；印刷字由 ocr 讀取，手寫與信心不足的欄位轉人工覆核，修正結果下一份即生效；內建財務報表辨識與勾稽，可部署在機房內。 免訓練擷取各種文件欄位，手寫與信心不足的轉人工覆核的 ai ocr 解決方案。 保險理賠與核保作業理賠附件來自不同機構，格式不一，還常夾雜手寫。 授信與徵信單位要減少財報登打與核對的時間，並保留每個數字的來源。 申請與審查單位要把各種申請書與證明文件的欄位，直接帶進既有的審查流程。 任意格式擷取 印刷字與罕用字 手寫欄位 信心度與分流 修正學習 內建財報辨識 核對與輸出 安全與稽核 ai ocr 是什麼？ ai ocr 可以辨識手寫嗎？ 遇到新的文件格式要重新訓練嗎？ 人工改過的結果會讓系統越來越準嗎？ ai ocr 智慧文件辨識可以部署在機房內嗎？ ai ocr 智慧文件辨識也能處理財務報表嗎？"><th scope="row">擷取表單、證明文件與財報欄位，手寫轉人工覆核</th><td><a href="solution-ai-ocr.html">AI OCR 智慧文件辨識</a></td></tr></tbody></table></div>
                             <div class="nm-finder-none" hidden><p>沒有找到直接對應的模組。您的需求可能需要組合幾個模組或客製，直接告訴我們，我們會回覆建議的做法。</p>
                                 <a href="contact.html" class="btn-nm-primary nm-finder-ask" data-toggle="modal" data-target="#myModal">把這個需求告訴我們</a></div>
                             <script>document.addEventListener('DOMContentLoaded',function(){

diff --git a/solution.html b/solution.html
@@ -1,11 +1,11 @@
 <!DOCTYPE html>
 <html lang="zh-hant-TW">
   <head>
-    <title>代理產品｜HCL Discover、HCL Unica、CDP 與 Magnolia CMS</title>
+    <title>代理產品｜HCL Discover、HCL Unica 與 Magnolia CMS</title>
     <meta charset="utf-8">
     <meta name="viewport" content="width=device-width, initial-scale=1, shrink-to-fit=no">
-    <meta name="description" content="奧洛代理並導入企業行銷科技產品：HCL Discover 數位體驗分析、CDP 客戶數據平台、HCL Unica 行銷自動化與 Magnolia CMS 內容管理系統，協助企業看見顧客在網站與 App 上的行為，並自動化行銷流程。">
-    <meta name="keywords" content="HCL Discover,數位體驗分析,Session Replay,CDP 客戶數據平台,HCL Unica,行銷自動化,Magnolia CMS,內容管理系統"> 
+    <meta name="description" content="奧洛代理並導入企業行銷科技產品：HCL Discover 數位體驗分析、HCL Unica 行銷自動化與 Magnolia CMS 內容管理系統，協助企業看見顧客在網站與 App 上的行為、自動化跨通路行銷，並管理網站與 App 內容。">
+    <meta name="keywords" content="HCL Discover,數位體驗分析,Session Replay,HCL Unica,行銷自動化,Magnolia CMS,內容管理系統"> 
       
     
     <link rel="canonical" href="https://aurobase.com/solution.html">
@@ -17,14 +17,14 @@
     <meta property="og:image:height" content="630">
     <meta property="og:image:alt" content="代理產品">
     <meta name="twitter:card" content="summary_large_image">
-    <meta name="twitter:title" content="代理產品｜HCL Discover、HCL Unica、CDP 與 Magnolia CMS">
-    <meta name="twitter:description" content="奧洛代理並導入企業行銷科技產品：HCL Discover 數位體驗分析、CDP 客戶數據平台、HCL Unica 行銷自動化與 Magnolia CMS 內容管理系統，協助企業看見顧客在網站與 App 上的行為，並自動化行銷流程。">
+    <meta name="twitter:title" content="代理產品｜HCL Discover、HCL Unica 與 Magnolia CMS">
+    <meta name="twitter:description" content="奧洛代理並導入企業行銷科技產品：HCL Discover 數位體驗分析、HCL Unica 行銷自動化與 Magnolia CMS 內容管理系統，協助企業看見顧客在網站與 App 上的行為、自動化跨通路行銷，並管理網站與 App 內容。">
     <meta name="twitter:image" content="https://aurobase.com/images/og/solution.jpg">
     <meta name="robots" content="index, follow, max-image-preview:large, max-snippet:-1">
     <link rel="alternate" hreflang="zh-Hant-TW" href="https://aurobase.com/solution.html">
     <!-- SOCIAL-META:END -->
-    <meta property="og:title" content="代理產品｜HCL Discover、HCL Unica、CDP 與 Magnolia CMS">
-    <meta property="og:description" content="奧洛代理並導入企業行銷科技產品：HCL Discover 數位體驗分析、CDP 客戶數據平台、HCL Unica 行銷自動化與 Magnolia CMS 內容管理系統，協助企業看見顧客在網站與 App 上的行為，並自動化行銷流程。">
+    <meta property="og:title" content="代理產品｜HCL Discover、HCL Unica 與 Magnolia CMS">
+    <meta property="og:description" content="奧洛代理並導入企業行銷科技產品：HCL Discover 數位體驗分析、HCL Unica 行銷自動化與 Magnolia CMS 內容管理系統，協助企業看見顧客在網站與 App 上的行為、自動化跨通路行銷，並管理網站與 App 內容。">
     <meta property="og:url" content="https://aurobase.com/solution.html">
     <meta property="og:site_name" content="奧洛 Aurobase">
 <!-- Favicon -->
@@ -69,8 +69,8 @@
       "@type": "WebPage",
       "@id": "https://aurobase.com/solution.html#webpage",
       "url": "https://aurobase.com/solution.html",
-      "name": "代理產品｜HCL Discover、HCL Unica、CDP 與 Magnolia CMS",
-      "description": "奧洛代理並導入企業行銷科技產品：HCL Discover 數位體驗分析、CDP 客戶數據平台、HCL Unica 行銷自動化與 Magnolia CMS 內容管理系統，協助企業看見顧客在網站與 App 上的行為，並自動化行銷流程。",
+      "name": "代理產品｜HCL Discover、HCL Unica 與 Magnolia CMS",
+      "description": "奧洛代理並導入企業行銷科技產品：HCL Discover 數位體驗分析、HCL Unica 行銷自動化與 Magnolia CMS 內容管理系統，協助企業看見顧客在網站與 App 上的行為、自動化跨通路行銷，並管理網站與 App 內容。",
       "inLanguage": "zh-Hant-TW",
       "isPartOf": {
         "@type": "WebSite",
@@ -87,7 +87,7 @@
         "width": 1200,
         "height": 630
       },
-      "keywords": "HCL Discover, 數位體驗分析, Session Replay, CDP 客戶數據平台, HCL Unica, 行銷自動化, Magnolia CMS, 內容管理系統"
+      "keywords": "HCL Discover, 數位體驗分析, Session Replay, HCL Unica, 行銷自動化, Magnolia CMS, 內容管理系統"
     },
     {
       "@type": "Organization",
@@ -151,7 +151,7 @@
           "name": "奧洛代理哪些行銷科技產品？",
           "acceptedAnswer": {
             "@type": "Answer",
-            "text": "奧洛代理 HCL Discover 數位體驗分析、CDP 客戶數據平台、HCL Unica 行銷自動化與 Magnolia CMS 內容管理，並提供導入與維護服務。"
+            "text": "奧洛代理 HCL Discover 數位體驗分析、HCL Unica 行銷自動化與 Magnolia CMS 內容管理，並提供導入與維護服務。客戶數據平台則是奧洛自有的 AURA CDP。"
           }
         },
         {
@@ -183,7 +183,7 @@
           "name": "網站行為軌跡可以串到 CDP 或行銷自動化嗎？",
           "acceptedAnswer": {
             "@type": "Answer",
-            "text": "可以。HCL Discover 與 HCL Unica、HCL CDP 原生整合並提供 REST API；行為軌跡也可以交給 AURA Connect 整理成行銷標籤，再交給 CDP 使用。"
+            "text": "可以。HCL Discover 與 HCL Unica、HCL CDP 原生整合並提供 REST API；行為軌跡也可以交給 AURA Connect 整理成行銷標籤，再交給 AURA CDP 使用。"
           }
         }
       ]
@@ -200,16 +200,11 @@
         {
           "@type": "ListItem",
           "position": 2,
-          "name": "CDP 客戶數據平台"
-        },
-        {
-          "@type": "ListItem",
-          "position": 3,
           "name": "HCL Unica 行銷自動化"
         },
         {
           "@type": "ListItem",
-          "position": 4,
+          "position": 3,
           "name": "Magnolia CMS 內容管理系統"
         }
       ]
@@ -360,7 +355,6 @@
         <!-- Anchor manu start --> 
         <div class="btn fixed-top text-right">
 <a href="#hcl_discover" class="btn btn-primary btn-sm">HCL Discover</a>
-          <a href="#auro_cdp" class="btn btn-primary btn-sm">CDP</a>
           <a href="#hcl_unica" class="btn btn-primary btn-sm">HCL Unica</a>
           <a href="#magnolia_cms" class="btn btn-primary btn-sm">Magnolia CMS</a>    
         </div>
@@ -420,30 +414,6 @@
     </div>
   </div>
 </section>
-<section id="auro_cdp" class="ftco-section">
-							
-								<div class="row  justify-content-end">
-			                        <div class="col-md-10">
-									<div class="col-md-12 project ftco-animate">
-										<div class="img img-fluid-d" style="height: 50vw; background-image: url(images/cdp01.webp); background-size:cover; background-position: center center;" alt="客戶數據平台：以客戶為中心整合線上資料、企業資料（CRM、ERP、POS）與第三方資料，搭配 AI 分群與自動貼標，建立 360 度客戶輪廓。">    
-										<div class="text text-right">
-											<h2>CDP</h2>
-										</div>
-										</div>
-			                            <div class="img img-fluid-d ftco-animate" style="height: 50vw; background-image: url(images/cdp02.webp); background-size:cover; background-position: center center;" alt="客戶樣貌辨識與 AI：客戶數位軌跡、客戶分群模型、AI 預測與客戶特性標籤、商品特性標籤。">
-										</div>
-			                            <div class="img img-fluid-d ftco-animate" style="height: 50vw; background-image: url(images/cdp03.webp); background-size:cover; background-position: center center;" alt="CDP 基本架構：數據表現、行銷策略、會員狀態對應業績成果；資料由資料源經匯集、轉換、貼標，送往個人化頁面、數位媒體、電子信件、訊息推播、社群行銷與客服聯繫等通路。">
-										</div>
-			                        
-			                            <img loading="lazy" src="images/cdp01-m.webp" class="img-fluid-m ftco-animate" alt="客戶數據平台：以客戶為中心整合線上資料、企業資料與第三方資料，搭配 AI 分群與自動貼標，建立 360 度客戶輪廓。">
-			                            <img loading="lazy" src="images/cdp02-m.webp" class="img-fluid-m ftco-animate" alt="客戶樣貌辨識與 AI：客戶數位軌跡、客戶分群模型、AI 預測與客戶標籤。">
-                                        <img loading="lazy" src="images/cdp03-m.webp" class="img-fluid-m ftco-animate" alt="CDP 基本架構：從資料源匯集、轉換、貼標，到個人化頁面、電子信件、訊息推播、社群行銷等通路應用。">
-			            
-							        </div>					
-								    </div>
-							    </div>
-			                  
-			</section>
 <section id="hcl_unica" class="ftco-section dsc">
   <div class="row justify-content-end">
     <div class="col-md-10">
@@ -492,7 +462,7 @@
 </section>
 		
 <!-- PAGE-FAQ:BEGIN（由 tools/build-module-pages.py 依 _pages.json 產生）-->
-<section id="faq" class="ftco-section pg-faq"><div class="row justify-content-end"><div class="col-md-10"><div class="pg-faq-wrap"><p class="pg-faq-label">FAQ</p><h2>常見問題</h2><div class="pg-faq-item"><h3>奧洛代理哪些行銷科技產品？</h3><p>奧洛代理 HCL Discover 數位體驗分析、CDP 客戶數據平台、HCL Unica 行銷自動化與 Magnolia CMS 內容管理，並提供導入與維護服務。</p></div><div class="pg-faq-item"><h3>HCL Discover 可以部署在企業自有機房嗎？</h3><p>可以。HCL Discover 可部署於企業自有機房（Windows／RHEL 虛擬機或容器），也提供雲端與 HCL 代管選項，金融機構可讓顧客行為資料全程留在境內。</p></div><div class="pg-faq-item"><h3>HCL Discover 會記錄密碼或身分證字號嗎？</h3><p>不會留下明文。密碼、OTP、身分證字號、帳號、卡號等欄位在瀏覽器端就遮罩或不擷取，伺服器端再遮罩一次，資料庫與回放畫面都沒有明文。</p></div><div class="pg-faq-item"><h3>HCL Unica 包含哪些模組？</h3><p>HCL Unica 包含 Plan、Campaign、Optimize、Journey、Interact、Deliver、Link 等模組，以及 Unica COM、Director、Insights 附加元件，涵蓋行銷資源管理、跨通路活動、客戶旅程與即時個人化推薦。</p></div><div class="pg-faq-item"><h3>網站行為軌跡可以串到 CDP 或行銷自動化嗎？</h3><p>可以。HCL Discover 與 HCL Unica、HCL CDP 原生整合並提供 REST API；行為軌跡也可以交給 AURA Connect 整理成行銷標籤，再交給 CDP 使用。</p></div></div></div></div></section>
+<section id="faq" class="ftco-section pg-faq"><div class="row justify-content-end"><div class="col-md-10"><div class="pg-faq-wrap"><p class="pg-faq-label">FAQ</p><h2>常見問題</h2><div class="pg-faq-item"><h3>奧洛代理哪些行銷科技產品？</h3><p>奧洛代理 HCL Discover 數位體驗分析、HCL Unica 行銷自動化與 Magnolia CMS 內容管理，並提供導入與維護服務。客戶數據平台則是奧洛自有的 AURA CDP。</p></div><div class="pg-faq-item"><h3>HCL Discover 可以部署在企業自有機房嗎？</h3><p>可以。HCL Discover 可部署於企業自有機房（Windows／RHEL 虛擬機或容器），也提供雲端與 HCL 代管選項，金融機構可讓顧客行為資料全程留在境內。</p></div><div class="pg-faq-item"><h3>HCL Discover 會記錄密碼或身分證字號嗎？</h3><p>不會留下明文。密碼、OTP、身分證字號、帳號、卡號等欄位在瀏覽器端就遮罩或不擷取，伺服器端再遮罩一次，資料庫與回放畫面都沒有明文。</p></div><div class="pg-faq-item"><h3>HCL Unica 包含哪些模組？</h3><p>HCL Unica 包含 Plan、Campaign、Optimize、Journey、Interact、Deliver、Link 等模組，以及 Unica COM、Director、Insights 附加元件，涵蓋行銷資源管理、跨通路活動、客戶旅程與即時個人化推薦。</p></div><div class="pg-faq-item"><h3>網站行為軌跡可以串到 CDP 或行銷自動化嗎？</h3><p>可以。HCL Discover 與 HCL Unica、HCL CDP 原生整合並提供 REST API；行為軌跡也可以交給 AURA Connect 整理成行銷標籤，再交給 AURA CDP 使用。</p></div></div></div></div></section>
 <!-- PAGE-FAQ:END -->
 	        <footer id="footer-sec" class="ftco-footer ftco-bg-dark ftco-section">
 <div class="container px-md-4">

diff --git a/index.html b/index.html
@@ -738,7 +738,6 @@ body:has(#entryOverlay:not(.closed)) .qf-fab { display: none; }
     <div class="idx-rule"></div>
     <div class="idx-grid">
       <article class="idx-card is-compact"><div class="idx-card-meta"><span>// 代理產品</span></div><h3 class="idx-card-title"><a href="solution.html#hcl_discover" class="idx-card-link">HCL Discover 數位體驗分析</a></h3><p class="idx-card-desc">工作階段回放、掙扎偵測、熱圖與旅程漏斗，找出顧客在網站與 App 上卡關與放棄的原因。</p><span class="idx-card-cta" aria-hidden="true">了解更多<svg class="idx-arrow" width="12" height="12" viewBox="0 0 12 12" fill="none" stroke="currentColor" stroke-width="1.8" aria-hidden="true"><path d="M3 9L9 3M4 3h5v5"/></svg></span></article>
-      <article class="idx-card is-compact"><div class="idx-card-meta"><span>// 代理產品</span></div><h3 class="idx-card-title"><a href="solution.html#auro_cdp" class="idx-card-link">CDP 客戶數據平台（代理產品）</a></h3><p class="idx-card-desc">整合線上、企業與第三方資料，搭配分群與貼標，建立 360 度客戶輪廓。</p><span class="idx-card-cta" aria-hidden="true">了解更多<svg class="idx-arrow" width="12" height="12" viewBox="0 0 12 12" fill="none" stroke="currentColor" stroke-width="1.8" aria-hidden="true"><path d="M3 9L9 3M4 3h5v5"/></svg></span></article>
       <article class="idx-card is-compact"><div class="idx-card-meta"><span>// 代理產品</span></div><h3 class="idx-card-title"><a href="solution.html#hcl_unica" class="idx-card-link">HCL Unica 行銷自動化</a></h3><p class="idx-card-desc">跨通路行銷活動、接觸策略最佳化、客戶旅程、即時個人化推薦與電子郵件、簡訊發送。</p><span class="idx-card-cta" aria-hidden="true">了解更多<svg class="idx-arrow" width="12" height="12" viewBox="0 0 12 12" fill="none" stroke="currentColor" stroke-width="1.8" aria-hidden="true"><path d="M3 9L9 3M4 3h5v5"/></svg></span></article>
       <article class="idx-card is-compact"><div class="idx-card-meta"><span>// 代理產品</span></div><h3 class="idx-card-title"><a href="solution.html#magnolia_cms" class="idx-card-link">Magnolia CMS 內容管理</a></h3><p class="idx-card-desc">以視覺化方式建置網站與 App 內容，跨通路重複使用，並與電商、行銷自動化與分析工具整合。</p><span class="idx-card-cta" aria-hidden="true">了解更多<svg class="idx-arrow" width="12" height="12" viewBox="0 0 12 12" fill="none" stroke="currentColor" stroke-width="1.8" aria-hidden="true"><path d="M3 9L9 3M4 3h5v5"/></svg></span></article>
     </div>

diff --git a/blogpost/single-2023-12-4.html b/blogpost/single-2023-12-4.html
@@ -355,7 +355,7 @@
 			            
 			           
 			            <!-- RELATED:BEGIN（由 tools/build-module-pages.py 依 _pages.json 產生）-->
-<aside class="pg-related" aria-label="延伸閱讀"><h2>延伸閱讀</h2><ul><li><a href="../nexus-cdp.html">AURA CDP 客戶數據平台</a></li><li><a href="../solution.html#auro_cdp">CDP 客戶數據平台（代理產品）</a></li><li><a href="../solution.html#hcl_unica">HCL Unica 行銷自動化</a></li></ul></aside>
+<aside class="pg-related" aria-label="延伸閱讀"><h2>延伸閱讀</h2><ul><li><a href="../nexus-cdp.html">AURA CDP 客戶數據平台</a></li><li><a href="../solution.html#hcl_unica">HCL Unica 行銷自動化</a></li><li><a href="../solution-digital-trail.html">AURA Connect 數位軌跡行銷資料整合</a></li></ul></aside>
 <!-- RELATED:END -->
 <!-- <div class="tag-widget post-tag-container mb-5 mt-5">
 			              <div class="tagcloud">
